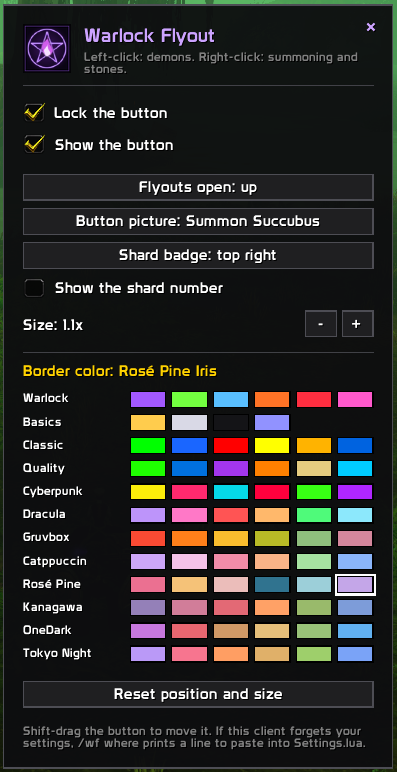
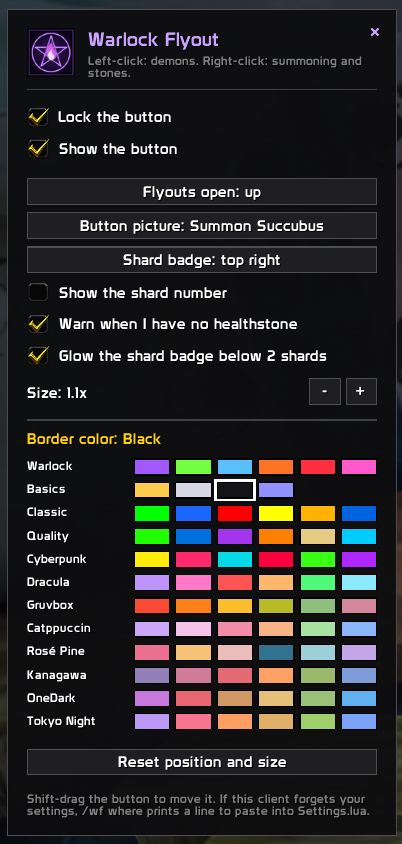
Warlock Flyout 2.0: new settings screenshot and README
Claude-Session: https://claude.ai/code/session_01WcUF6mfSwYWC6SXoLRekJ4wG

diff --git a/README.md b/README.md
@@ -9,11 +9,11 @@
 
 Shows only spells you've learned, works in combat, and displays your soul shards.
 
-In `/wf config` you can pick a border color and a button picture (the pentagram, a Soul Shard or a warlock spell icon). The border colors are a menu of swatches: warlock colors (purple, fel green, ice blue, fire, blood red, pink), gold, silver, black, your class color, the game's bar and item quality colors, and the Cyberpunk, Dracula, Gruvbox, Catppuccin, Rosé Pine, Kanagawa, OneDark and Tokyo Night color schemes. The shard badge can sit in any corner, show or hide its number, and its Soul Shard darkens as you run low. Works on any client language, including German.
+In `/wf config` you can pick a border color and a button picture (the pentagram, a Soul Shard or a warlock spell icon). The border colors are a menu of swatches: warlock colors (purple, fel green, ice blue, fire, blood red, pink), gold, silver, black, your class color, the game's bar and item quality colors, and the Cyberpunk, Dracula, Gruvbox, Catppuccin, Rosé Pine, Kanagawa, OneDark and Tokyo Night color schemes. The shard badge can sit in any corner, show or hide its number, and its Soul Shard darkens as you run low. Two optional warnings (both off by default): the button pulses green and its border turns green while you have no healthstone, and the shard badge glows in the shards' purple when you're down to 0 or 1 shard. Works on any client language, including German.
 
 ![The demon flyout in game](art/screenshot.png)
 
-![Settings window with the border color menu](art/settings-colors.png)
+![Settings window with the warning options and the border color menu](art/settings-colors.png)
 
 ![Tooltip with soul shards and soul bag fill](art/tooltip.png)
 
